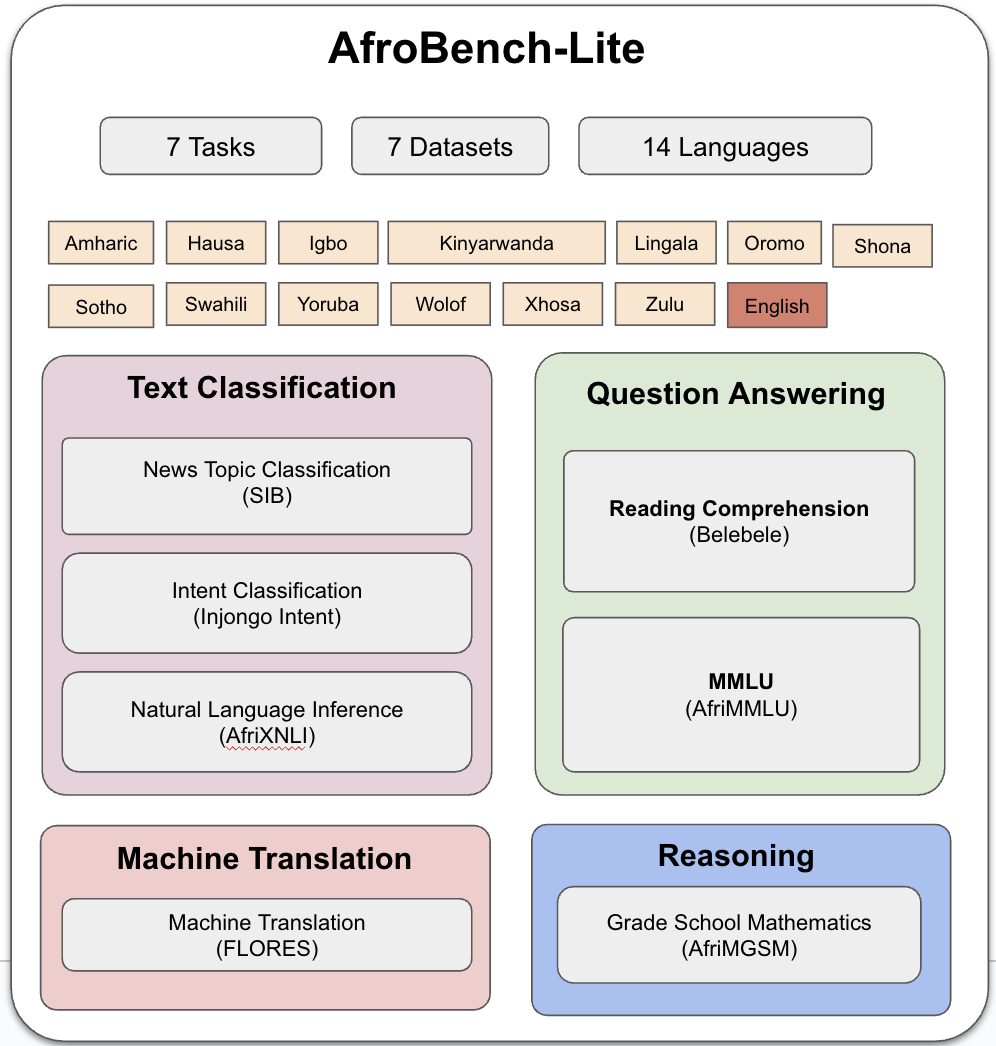
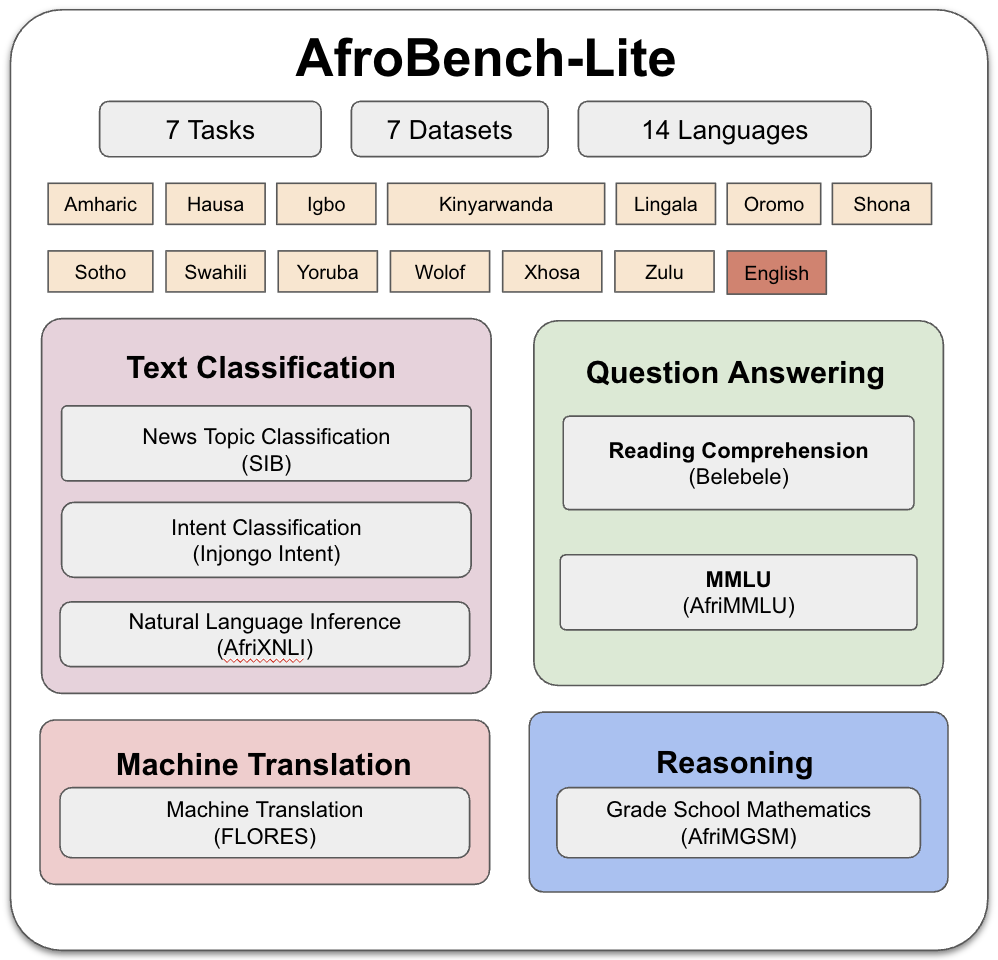
update alignment

diff --git a/website/index.html b/website/index.html
@@ -130,7 +130,7 @@
                     AfroBench-LITE is a streamlined version of AfroBench, designed for comprehensive LLM evaluation under compute constraints. 
                     It establishes baselines across 7 datasets and 14 African languages, ensuring broad NLP coverage while maintaining language diversity.
                 </p>
-                <div class="mt-6">
+                <div class="mt-3">
                     <img src="assets/afrobench-lite_tasks.png" alt="AfroBench Leaderboard" class="max-w-full shadow-lg rounded-lg">
                     <p class="text-gray-700 mt-3 text-sm text-left">
                     Figure: Overview of AfroBench-LITE tasks and languages
@@ -140,10 +140,12 @@
     
             <!-- Right Column: Scatter Plot -->
             <div class="flex flex-col items-center">
-                <img  src="assets/afrobench-lite.png" alt="AfroBench-LITE Table" class="max-w-full shadow-lg rounded-lg">
-                <p class="text-gray-700 mt-3 text-sm text-left">
-                    Figure: Comparison between AfroBench score against model size. Closed models tend to perform better, with GPT-4o and Gemini 1.5 Pro leading the benchmarks.
-                </p>
+                <div class="mt-20">
+                    <img  src="assets/afrobench-lite.png" alt="AfroBench-LITE Table" class="max-w-full shadow-lg rounded-lg">
+                    <p class="text-gray-700 mt-3 text-sm text-left">
+                        Figure: Comparison between AfroBench score against model size. Closed models tend to perform better, with GPT-4o and Gemini 1.5 Pro leading the benchmarks.
+                    </p>
+                </div>
             </div>
         </div>
     
@@ -179,12 +181,12 @@
           url={https://arxiv.org/abs/2311.07978}, 
         }</pre>
         <p>
-            Please cite datasets evaluated. Citations for individual datasets are included in their respective repository readme files in the <a href="https://github.com/JessicaOjo/lm-evaluation-harness/tree/e739c96ac50e38832ae2773c967ff3bb1a042572/lm_eval/tasks/afrobench"
+            Please cite the individual datasets used in this benchmark. References to the corresponding papers and datasets can be found in the <a href="tasks.html"
                title="Visit AfroBench Repository"
                target="_blank"
                rel="noopener noreferrer"
                class="text-blue-500 font-bold">
-                AfroBench Repository.
+                tasks taxonomy.
             </a>
         </p>
     </section>
